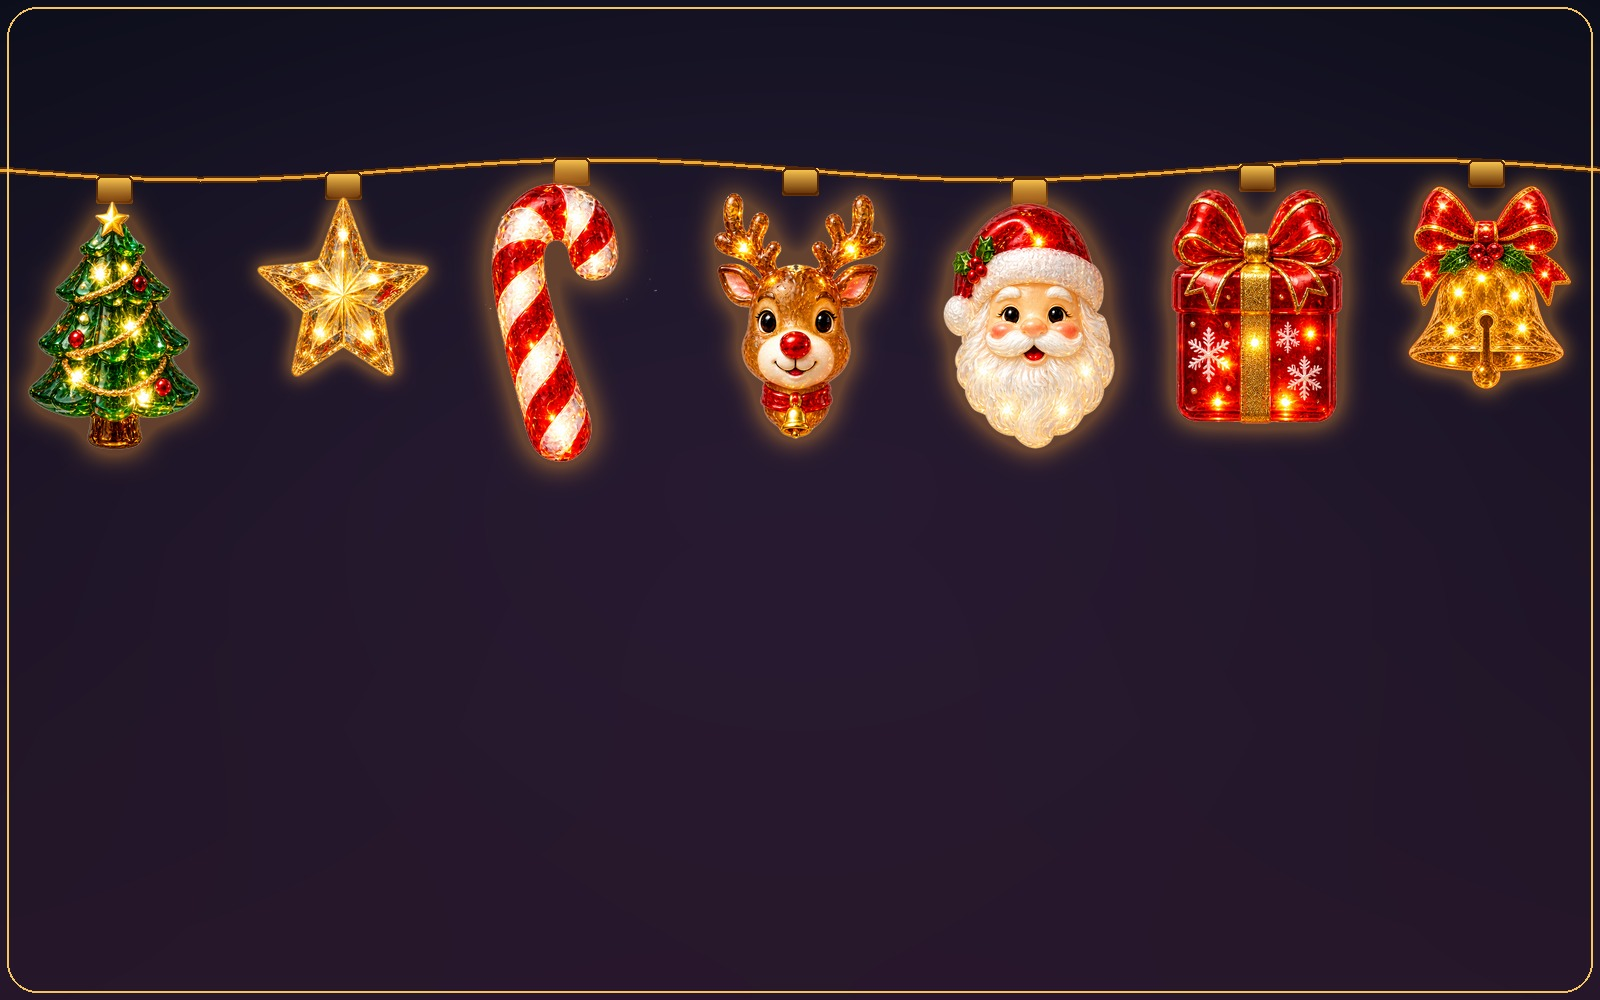
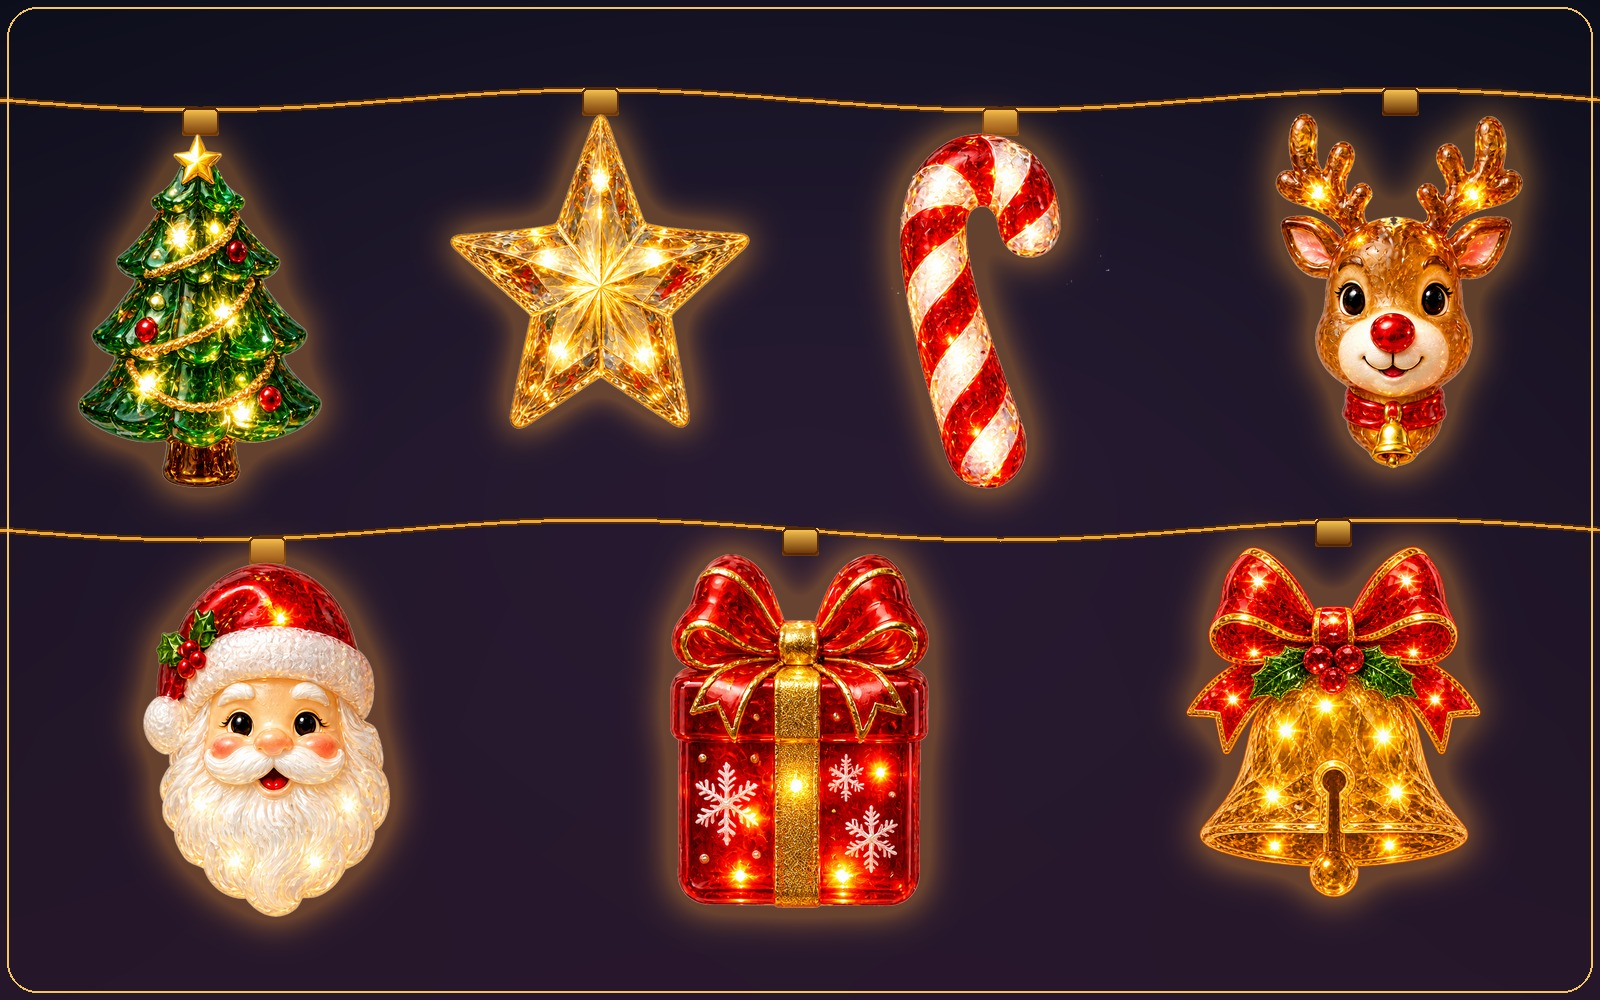
Add files via upload

diff --git a/tint_basic_vintage.py b/tint_basic_vintage.py
@@ -1,0 +1,225 @@
+import math
+from pathlib import Path
+
+import numpy as np
+from PIL import Image, ImageDraw, ImageFilter
+
+ROOT = Path(__file__).resolve().parent
+APP = ROOT.parent / "02 macOS App Store Edition" / "DesktopLightsAppStore" / "App"
+OUT = ROOT / "images" / "showcases"
+OUT.mkdir(parents=True, exist_ok=True)
+
+# Real bulb-shape lists, read directly from ChristmasLights.m's
+# loadBasicLightFramesAtIndex:/loadVintageGlassFramesAtIndex: (the actual
+# assetIDs arrays the app loads), NOT from the BasicLights folder's full
+# file listing -- that folder has 16 PNGs but only 6 are actually wired up
+# for Basic Lights; the other 10 are unused leftovers. Basic Lights also has
+# two non-artwork style entries (Fairy Lights: procedural, no image; Mixed
+# Incandescent: cycles these same 6) which aren't distinct shapes to show.
+BASIC = [
+    "mini-edison", "classic-a19", "short-tube",
+    "spiral-edison", "round-globe", "oversized-globe",
+]
+VINTAGE = [
+    "mini-globe", "edison-teardrop", "tapered-c7", "fluted-oval",
+    "diamond", "shallow-dome", "smooth-capsule", "tube",
+]
+
+# Classic Collection's real "Multicolor" palette, read directly from
+# ChristmasLights.m's effectivePaletteSets (the same color menu Basic
+# Lights and Vintage Glass Bulbs are styled through -- neither is a JSON
+# catalog collection with its own palette). Not naturalHueTint, so the app
+# renders it with kCGBlendModeMultiply at tintAlpha .82, reproduced here.
+#   deepRed      colorWithCalibratedRed:.72 green:.025 blue:.055 -> #B8060E
+#   systemGreen  NSColor.systemGreenColor                        -> #34C759
+#   systemYellow NSColor.systemYellowColor                       -> #FFCC00
+#   deepBlue     colorWithCalibratedRed:.025 green:.14 blue:.72  -> #0624B8
+#   warmWhite    colorWithCalibratedRed:1 green:.82 blue:.54     -> #FFD18A
+#   white        NSColor.whiteColor                              -> #FFFFFF
+#   paleIceBlue  colorWithCalibratedRed:.72 green:.88 blue:1     -> #B8E0FF
+CLASSIC_MULTICOLOR = ["#B8060E", "#34C759", "#FFCC00", "#0624B8", "#FFD18A", "#FFFFFF", "#B8E0FF"]
+TINT_ALPHA = 0.82
+
+
+def hex_to_rgb(hex_color):
+    hex_color = hex_color.lstrip("#")
+    return tuple(int(hex_color[i:i + 2], 16) for i in (0, 2, 4))
+
+
+def tint_bulb(image, hex_color, alpha=TINT_ALPHA):
+    img = image.convert("RGBA")
+    arr = np.asarray(img).astype(np.float32)
+    rgb = arr[..., :3]
+    alpha_ch = arr[..., 3:4]
+    tint = np.array(hex_to_rgb(hex_color), dtype=np.float32).reshape(1, 1, 3)
+    multiplied = rgb * tint / 255.0
+    out_rgb = rgb * (1 - alpha) + multiplied * alpha
+    out = np.concatenate([out_rgb, alpha_ch], axis=-1)
+    return Image.fromarray(np.clip(out, 0, 255).astype("uint8"), "RGBA")
+
+
+def crop_visible(image, threshold=5):
+    image = image.convert("RGBA")
+    alpha = np.asarray(image.getchannel("A"))
+    ys, xs = np.where(alpha > threshold)
+    if not len(xs):
+        return image
+    pad = max(3, min(image.size) // 120)
+    box = (
+        max(0, int(xs.min()) - pad), max(0, int(ys.min()) - pad),
+        min(image.width, int(xs.max()) + pad + 1),
+        min(image.height, int(ys.max()) + pad + 1),
+    )
+    return image.crop(box)
+
+
+def folder_images(folder, names):
+    return [crop_visible(Image.open(APP / "Resources" / folder / f"{name}.png")) for name in names]
+
+
+def make_background(width=1600, height=1000):
+    top = np.array([8, 12, 23], dtype=np.float32)
+    bottom = np.array([37, 22, 41], dtype=np.float32)
+    blend = np.linspace(0, 1, height)[:, None, None]
+    rgb = top[None, None, :] * (1 - blend) + bottom[None, None, :] * blend
+    rgb = np.repeat(rgb, width, axis=1)
+    yy, xx = np.mgrid[0:height, 0:width]
+    glow = np.exp(-(((xx - width * .5) / (width * .55)) ** 2 + ((yy - height * .34) / (height * .52)) ** 2))[:, :, None]
+    rgb += glow * np.array([18, 10, 18], dtype=np.float32)
+    return Image.fromarray(np.clip(rgb, 0, 255).astype("uint8"), "RGB").convert("RGBA")
+
+
+def wire_points(y, width):
+    return [(x, y + 10 * math.sin((x / width) * math.pi * 4)) for x in range(-20, width + 21, 4)]
+
+
+def draw_socket(canvas, cx, y):
+    draw = ImageDraw.Draw(canvas)
+    w, h = 36, 26
+    x0 = round(cx - w / 2)
+    for row in range(h):
+        t = row / (h - 1)
+        rgb = tuple(round(a * (1 - t) + b * t) for a, b in zip((255, 203, 82), (103, 49, 7)))
+        draw.rounded_rectangle((x0, y + row, x0 + w, y + row + 2), radius=5, fill=rgb + (255,))
+    draw.rounded_rectangle((x0, y, x0 + w, y + h), radius=5, outline=(79, 37, 5, 230), width=2)
+
+
+FAIRY = "__fairy_lights__"
+
+
+def draw_fairy_tile(canvas, cx, wire_y, cell_width, max_height, colors):
+    """Fairy Lights has no bundled artwork -- it's the app's own procedural
+    look (drawFairyLightsWithScale: 3 loose copper micro-wire strands with
+    small multicolor LED dots, no socket/bulb shell). Reproduced here at
+    showcase scale rather than substituting an unrelated bulb image."""
+    draw = ImageDraw.Draw(canvas)
+    copper_dark, copper_gold = (110, 61, 20, 255), (230, 163, 64, 255)
+    span = cell_width * 0.92
+    x0, x1 = cx - span / 2, cx + span / 2
+    strands = 3
+    tile_h = max_height * 0.82
+    glow_layer = Image.new("RGBA", canvas.size, (0, 0, 0, 0))
+    glow_draw = ImageDraw.Draw(glow_layer)
+    dots = []
+    for strand in range(strands):
+        y_base = wire_y + 16 + tile_h * ((strand + 0.5) / strands)
+        amp = tile_h / strands * 0.32
+        pts = [
+            (x0 + t / 30 * (x1 - x0), y_base + amp * math.sin((t / 30) * math.pi * 3 + strand * 1.7))
+            for t in range(31)
+        ]
+        draw.line(pts, fill=copper_dark, width=3)
+        draw.line(pts, fill=copper_gold, width=1)
+        n_dots = 7
+        for d in range(n_dots):
+            t = (d + 0.5) / n_dots
+            x = x0 + t * (x1 - x0)
+            y = y_base + amp * math.sin(t * math.pi * 3 + strand * 1.7)
+            dots.append((x, y, strand * n_dots + d))
+    for x, y, idx in dots:
+        color = hex_to_rgb(colors[idx % len(colors)])
+        glow_draw.ellipse((x - 22, y - 22, x + 22, y + 22), fill=color + (190,))
+    canvas.alpha_composite(glow_layer.filter(ImageFilter.GaussianBlur(9)))
+    draw = ImageDraw.Draw(canvas)
+    for x, y, idx in dots:
+        color = hex_to_rgb(colors[idx % len(colors)])
+        r = 6.5
+        draw.ellipse((x - r, y - r, x + r, y + r), fill=color + (255,))
+        draw.ellipse((x - r * .4, y - r * .55, x - r * .4 + r * .7, y - r * .55 + r * .7), fill=(255, 255, 255, 235))
+
+
+def place_bulb(canvas, bulb, cx, top, cell_width, max_height, glow_rgb=(255, 161, 55)):
+    scale = min(cell_width * .76 / bulb.width, max_height / bulb.height)
+    bulb = bulb.resize(
+        (max(1, round(bulb.width * scale)), max(1, round(bulb.height * scale))),
+        Image.Resampling.LANCZOS,
+    )
+    x, y = round(cx - bulb.width / 2), round(top)
+    mask = Image.new("L", canvas.size, 0)
+    mask.paste(bulb.getchannel("A"), (x, y))
+    mask = mask.filter(ImageFilter.GaussianBlur(max(10, round(max(bulb.size) * .055))))
+    glow = Image.new("RGBA", canvas.size, glow_rgb + (0,))
+    glow.putalpha(mask.point(lambda value: min(78, value)))
+    canvas.alpha_composite(glow)
+    canvas.alpha_composite(bulb, (x, y))
+
+
+def make_showcase(collection_id, images, glow_colors=None, rows=None):
+    canvas = make_background()
+    count = len(images)
+    # Michiko's rule for this pass: more than 6 bulbs -> split across 2 rows
+    # (both Basic Lights at 16 and Vintage Glass Bulbs at 8 qualify).
+    if rows is None:
+        rows = 2 if count > 6 else 1
+    per_row = math.ceil(count / rows)
+    row_height = 430 if rows == 2 else 720
+    first_wire = 100 if rows == 2 else 170
+    draw = ImageDraw.Draw(canvas)
+    index = 0
+    for row in range(rows):
+        remaining = count - index
+        row_count = min(per_row, remaining)
+        wire_y = first_wire + row * row_height
+        points = wire_points(wire_y, canvas.width)
+        draw.line(points, fill=(83, 43, 10, 255), width=7)
+        draw.line(points, fill=(239, 170, 54, 255), width=3)
+        cell_width = canvas.width / row_count
+        for col in range(row_count):
+            cx = cell_width * (col + .5)
+            local_wire_y = wire_y + 10 * math.sin((cx / canvas.width) * math.pi * 4)
+            if images[index] == FAIRY:
+                draw_fairy_tile(canvas, cx, local_wire_y, cell_width, row_height - 72, CLASSIC_MULTICOLOR)
+            else:
+                draw_socket(canvas, cx, round(local_wire_y - 2))
+                top = local_wire_y + 22
+                glow_rgb = glow_colors[index] if glow_colors else (255, 161, 55)
+                place_bulb(canvas, images[index], cx, top, cell_width, row_height - 72, glow_rgb)
+            index += 1
+    draw.rounded_rectangle((7, 7, 1592, 992), radius=30, outline=(244, 196, 99, 70), width=2)
+    canvas.convert("RGB").save(OUT / f"{collection_id}.jpg", quality=92, optimize=True, progressive=True)
+
+
+for collection_id, folder, names, include_fairy in [
+    ("basic-lights", "BasicLights", BASIC, True),
+    ("vintage-glass-bulbs", "VintageGlassBulbs", VINTAGE, False),
+]:
+    images = folder_images(folder, names)
+    tinted, glow_colors = [], []
+    for i, img in enumerate(images):
+        hex_color = CLASSIC_MULTICOLOR[i % len(CLASSIC_MULTICOLOR)]
+        tinted.append(tint_bulb(img, hex_color))
+        glow_colors.append(hex_to_rgb(hex_color))
+    if include_fairy:
+        # Fairy Lights is a real, selectable Basic Lights style (it just has
+        # no bundled bulb artwork -- procedural, see draw_fairy_tile above).
+        # Michiko asked for it shown alongside the other bulbs.
+        tinted.append(FAIRY)
+        glow_colors.append((255, 255, 255))
+    # Michiko's rule: more than 6 bulbs -> 2 rows. Basic Lights is 6 real
+    # shapes + Fairy Lights = 7, so it now crosses into 2 rows too;
+    # Vintage Glass Bulbs (8) stays 2 rows as before.
+    rows = 2 if len(tinted) > 6 else 1
+    make_showcase(collection_id, tinted, glow_colors=glow_colors, rows=rows)
+    print(f"Retinted {collection_id} with {len(tinted)} item(s) across {rows} row(s), multicolor" + (" (incl. Fairy Lights)" if include_fairy else ""))
+
+print("Done.")
